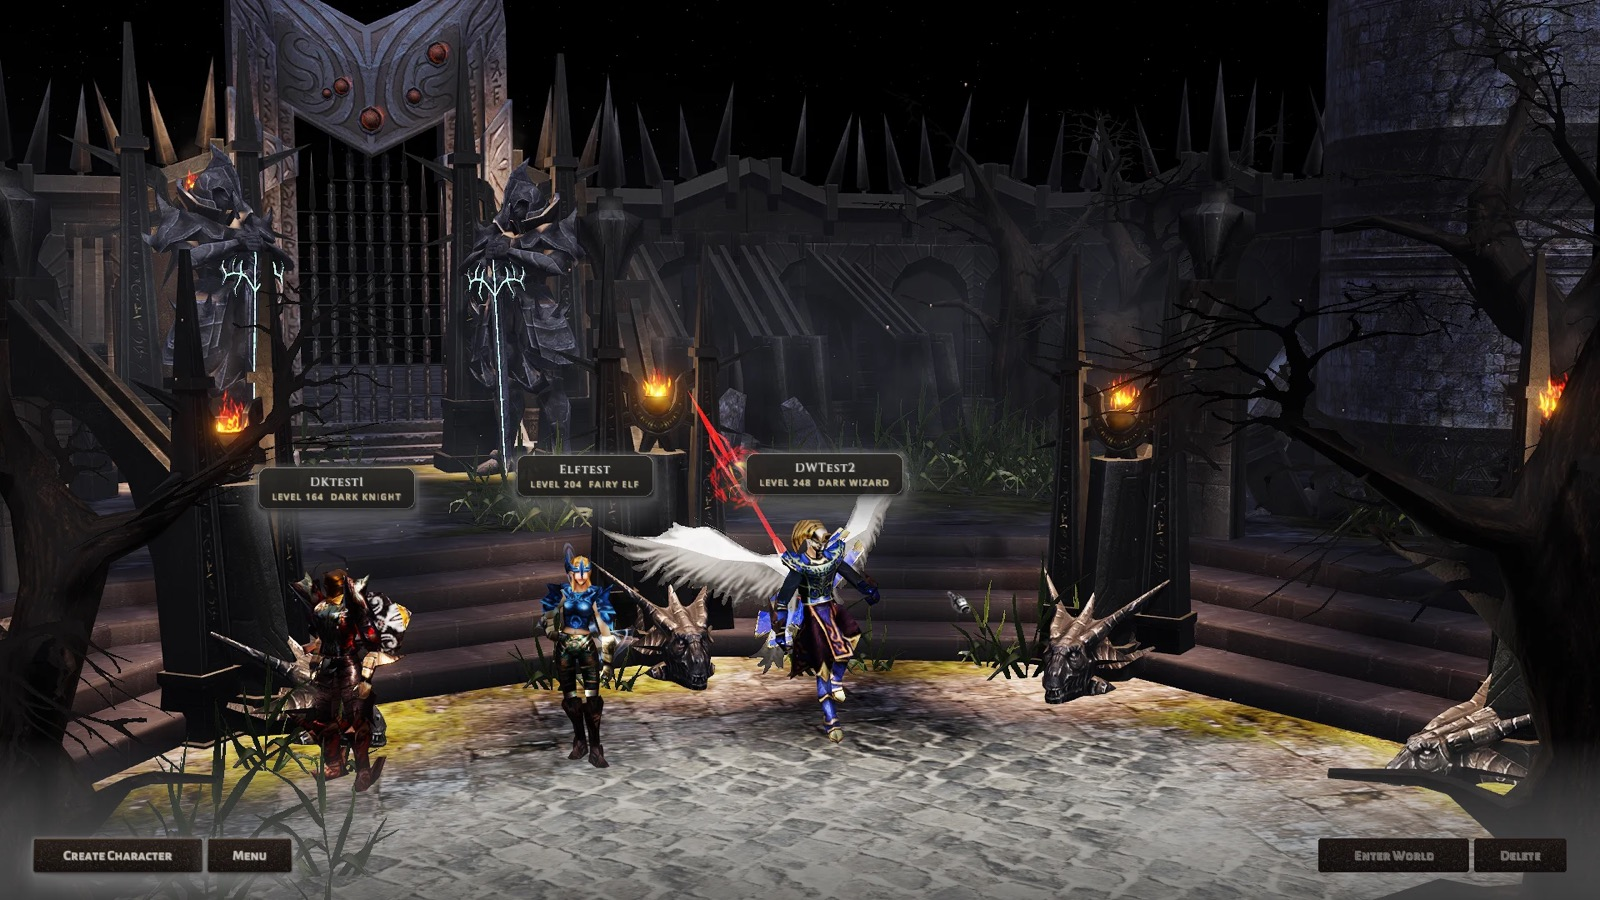
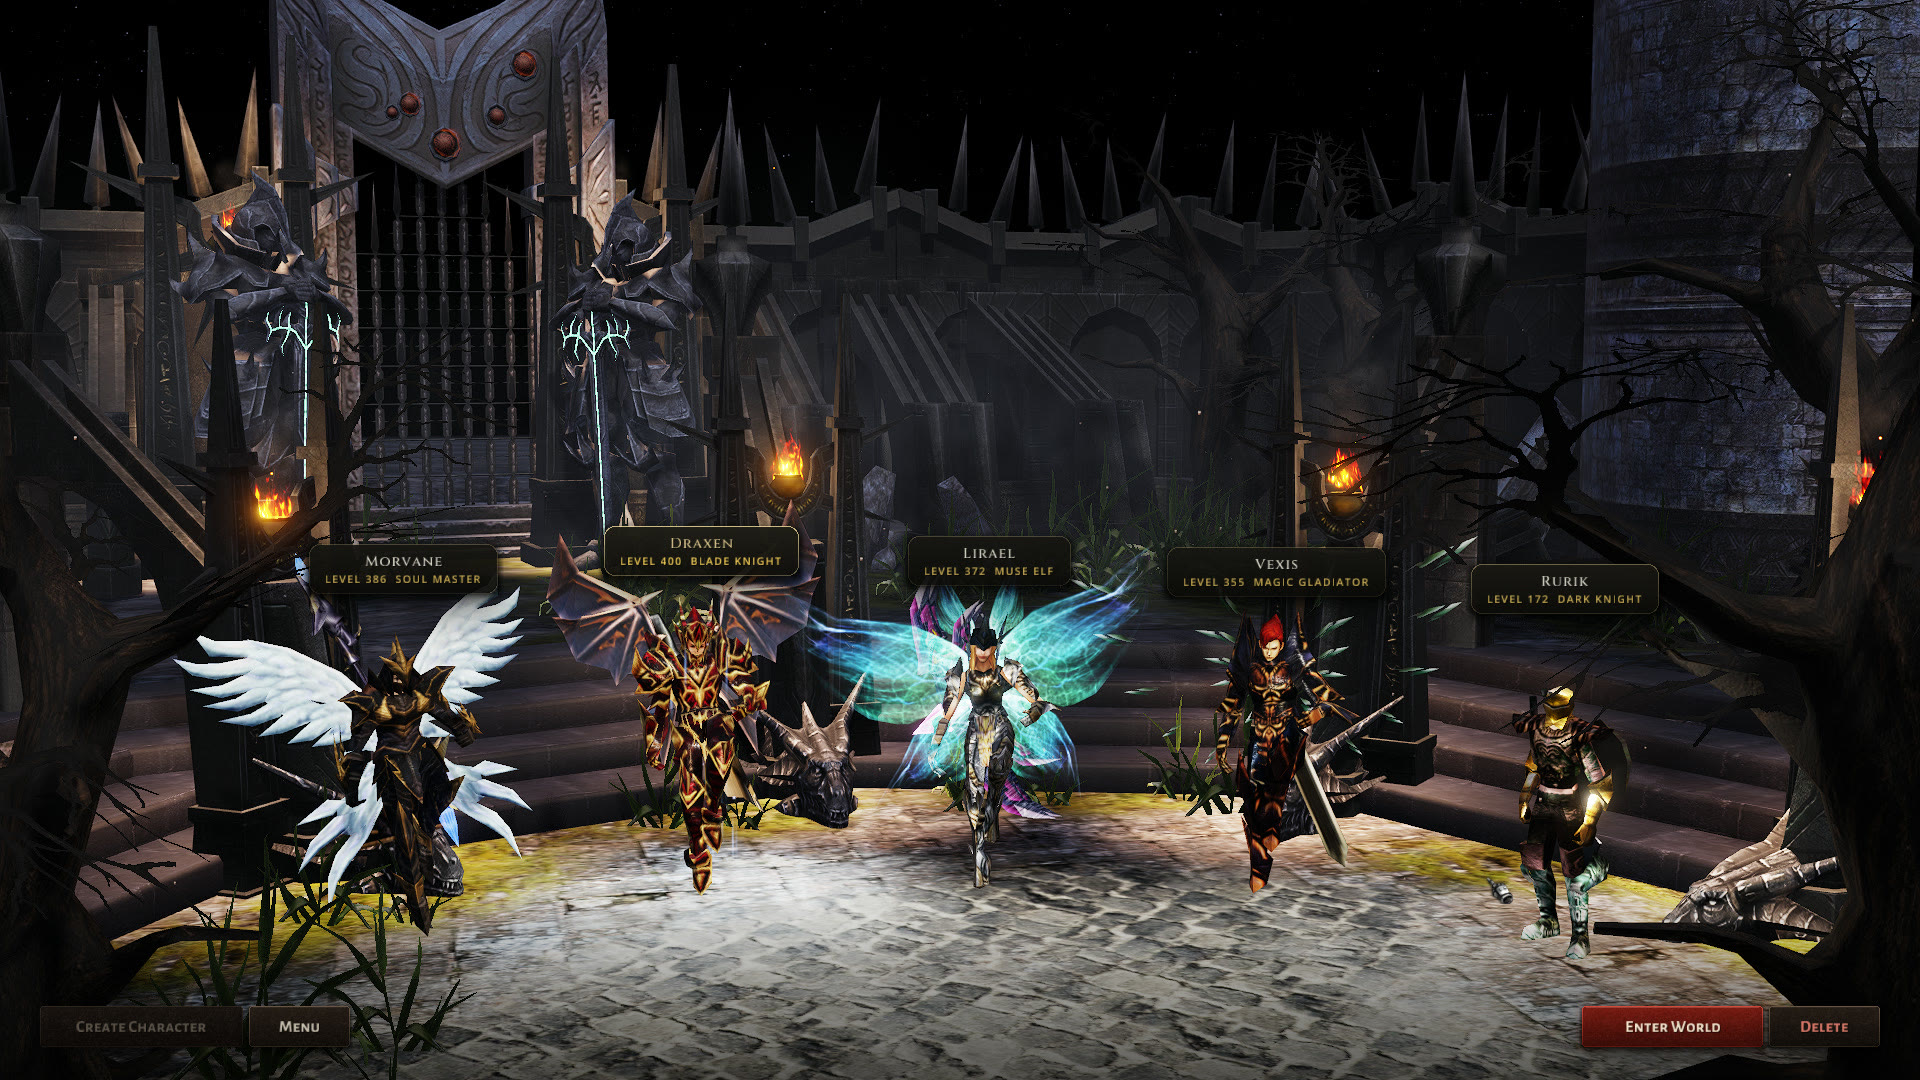
MU2_BGFX: the website's new screenshots -- eight shots, 1920x1080 with the HUD
The user: "we need to make new screenshots for website", all with the HUD, no changed lighting,
dropped items in some fights, a character screen with a +11 Blade Knight and a weaker latest
build, Lorencia's tavern full with realistic chat, the Dungeon as a low-level party grinding
Ghosts at their own spawn, and Icarus with a party. After the video: select, lorencia-tavern,
bloodcastle, devias, losttower, devilsquare, icarus, dungeon. atlans, lorencia-night and
lorencia-town are gone. The PNGs carry alpha under 1 where the HUD blends; the JPEGs drop it
(format=rgb24), or the party list and the minimap wear a pale mask (web/site/index.html,
web/site/shots/)

diff --git a/web/site/index.html b/web/site/index.html
@@ -247,11 +247,14 @@ Signed in as <b id="signed-name" style="color: var(--bone-hi)"></b> · <a href="
 
   // ---- screenshots: an endless row, the middle one large
   const SHOTS = [
-    ['select', 'A Dark Knight, Fairy Elf and winged Dark Wizard on the torchlit character screen'],
-    ['lorencia-night', 'A Dark Knight walking a forest path in Lorencia at night as skeletons close in'],
-    ['devias', 'A Dark Knight inside a snowbound house in Devias, with a fireplace and bookshelves'],
-    ['lorencia-town', 'A new character in the sunlit square of Lorencia beside the well'],
-    ['atlans', 'A character on the pale sea floor of Atlans among stone ruins'],
+    ['select', 'The character screen: a Soul Master, a Blade Knight in a +11 set, a Muse Elf, a Magic Gladiator and a level 172 Dark Knight'],
+    ['lorencia-tavern', 'A full tavern in Lorencia, players at the tables and the bar, the map chat busy'],
+    ['bloodcastle', 'A party breaking the Statue of Saint in Blood Castle'],
+    ['devias', 'A Dark Knight in the snow of Devias beside a fallen Yeti and a dropped scroll'],
+    ['losttower', 'A Dark Wizard casting Hellfire on a Death Knight beside the lava of the Lost Tower'],
+    ['devilsquare', 'A party in Devil Square with dropped items on the ground and the wave tracker'],
+    ['icarus', 'A winged party of five, levels 215 to 246, fighting Great Drakans in the skies of Icarus'],
+    ['dungeon', 'A party of five, levels 55 to 64, grinding Ghosts by a torch in the Dungeon'],
   ];
   // The first slide is the world showcase on YouTube, playing muted; its button turns the sound
   // on. While it plays in the middle the row waits, and moves on when it ends.
